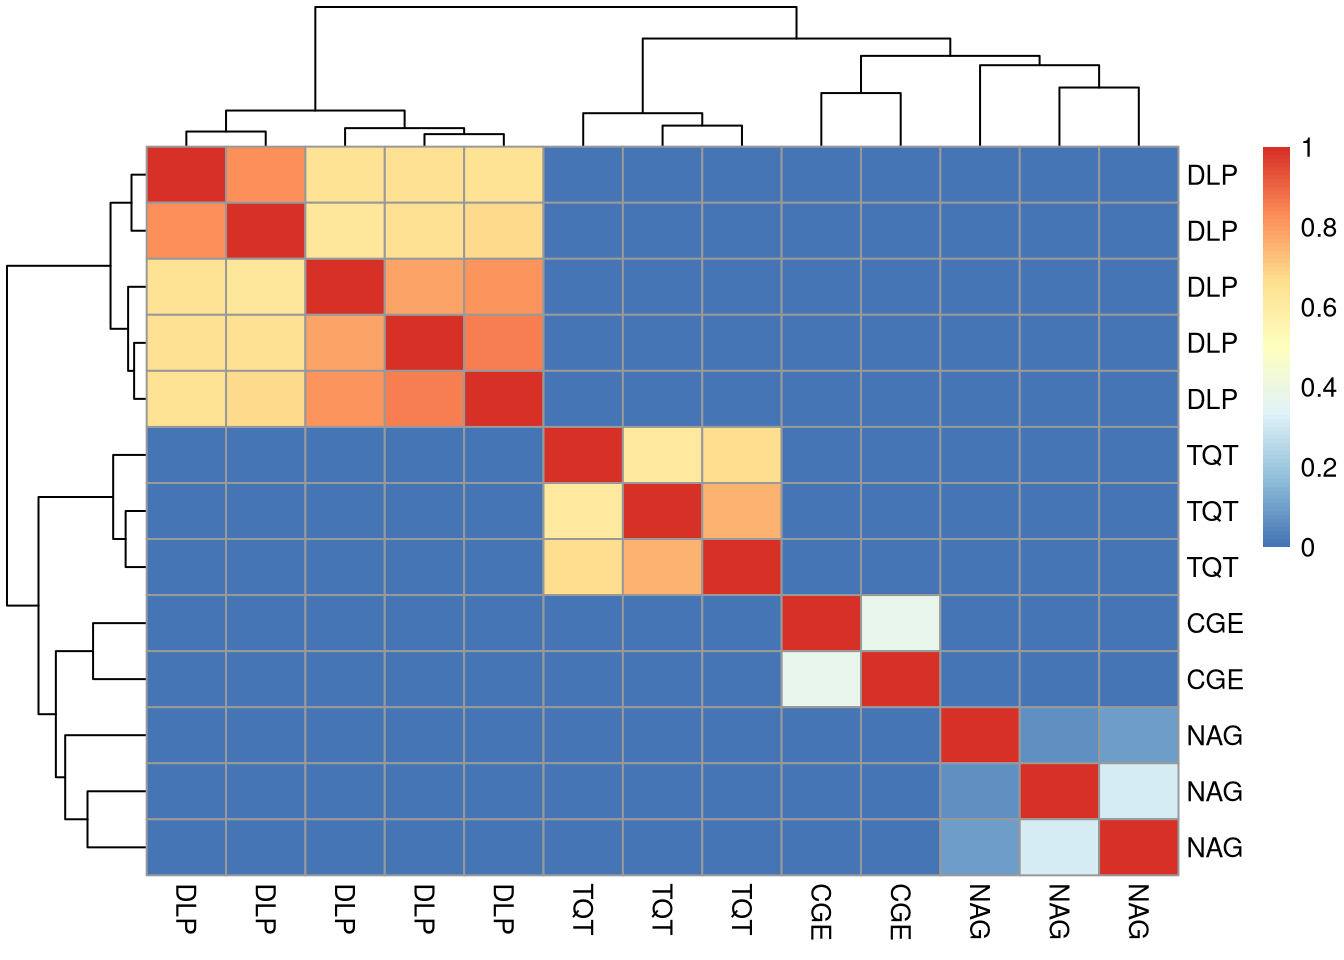
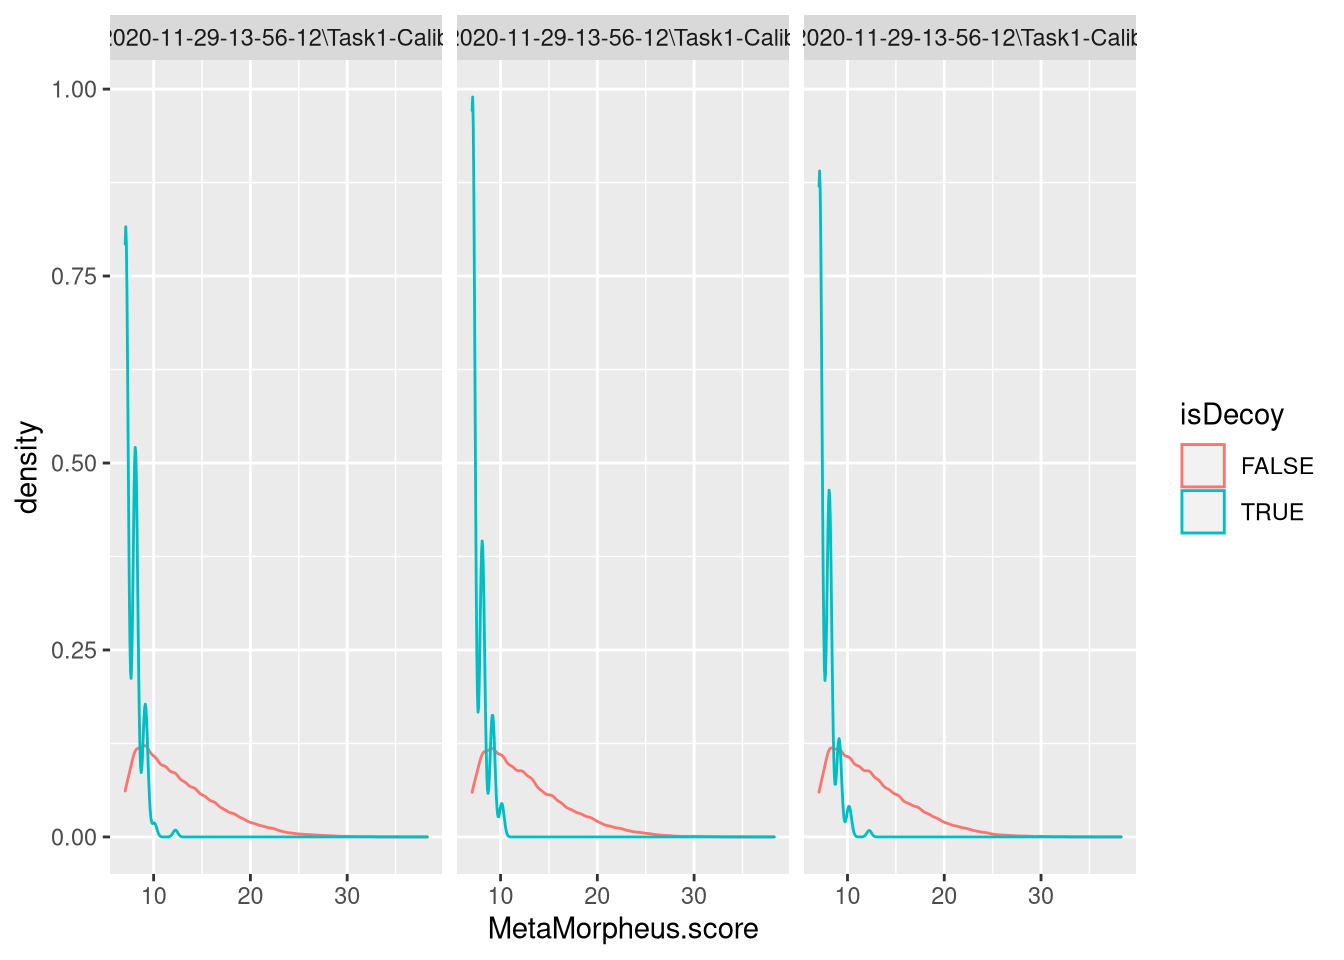
typos and fig width

diff --git a/docs/identification-data.html b/docs/identification-data.html
@@ -1120,7 +1120,7 @@ page for details. Draw a heatmap of that distance matrix</li>
 <a href="https://www.ebi.ac.uk/pride/archive/projects/PXD022816">PXD022816</a>
 project <span class="citation">(<a href="#ref-Morgenstern:2020" role="doc-biblioref">Morgenstern, Barzilay, and Levin 2021</a>)</span>. Hint: you will need to execute
 <code>rpx:::apply_fix_issue_5(FALSE)</code> before instantiating the data object
-if you user <code>rpx</code> version &lt; 1.99.4.</p>
+if you use <code>rpx</code> version &lt; 1.99.4.</p>
 <p class="question-end">
 <span class="fa fa-square-o solution-icon"></span>
 </p>
@@ -1202,7 +1202,7 @@ if you user <code>rpx</code> version &lt; 1.99.4.</p>
 </p>
 <div class="question-body">
 <p>Generate a <code>Spectra</code> object and a table of filtered PSMs. Visualise
-the totla ion chromatograms and check the quality of the
+the total ion chromatograms and check the quality of the
 identification data by comparing the density of the decoy and target
 PSMs id scores for each file.</p>
 <p class="question-end">
@@ -1265,7 +1265,7 @@ PSMs id scores for each file.</p>
 <span id="cb215-10"><a href="identification-data.html#cb215-10" aria-hidden="true" tabindex="-1"></a>               <span class="at">y =</span> totIonCurrent,</span>
 <span id="cb215-11"><a href="identification-data.html#cb215-11" aria-hidden="true" tabindex="-1"></a>               <span class="at">colour =</span> <span class="fu">basename</span>(dataOrigin))) <span class="sc">+</span></span>
 <span id="cb215-12"><a href="identification-data.html#cb215-12" aria-hidden="true" tabindex="-1"></a>    <span class="fu">geom_line</span>()</span></code></pre></div>
-<p><img src="R4MS_files/figure-html/unnamed-chunk-57-1.png" width="672"></p>
+<p><img src="R4MS_files/figure-html/unnamed-chunk-58-1.png" width="1152"></p>
 <div class="sourceCode" id="cb216"><pre class="sourceCode r"><code class="sourceCode r"><span id="cb216-1"><a href="identification-data.html#cb216-1" aria-hidden="true" tabindex="-1"></a><span class="do">## Identification data</span></span>
 <span id="cb216-2"><a href="identification-data.html#cb216-2" aria-hidden="true" tabindex="-1"></a><span class="fu">library</span>(<span class="st">"PSM"</span>)</span>
 <span id="cb216-3"><a href="identification-data.html#cb216-3" aria-hidden="true" tabindex="-1"></a>id <span class="ot">&lt;-</span> <span class="fu">PSM</span>(mzids)</span>
@@ -1284,7 +1284,7 @@ PSMs id scores for each file.</p>
 <span id="cb218-3"><a href="identification-data.html#cb218-3" aria-hidden="true" tabindex="-1"></a>               <span class="at">colour =</span> isDecoy)) <span class="sc">+</span></span>
 <span id="cb218-4"><a href="identification-data.html#cb218-4" aria-hidden="true" tabindex="-1"></a>    <span class="fu">geom_density</span>() <span class="sc">+</span></span>
 <span id="cb218-5"><a href="identification-data.html#cb218-5" aria-hidden="true" tabindex="-1"></a>    <span class="fu">facet_wrap</span>(<span class="sc">~</span> spectrumFile)</span></code></pre></div>
-<p><img src="R4MS_files/figure-html/unnamed-chunk-57-2.png" width="672"></p>
+<p><img src="R4MS_files/figure-html/unnamed-chunk-59-1.png" width="672"></p>
 <div class="sourceCode" id="cb219"><pre class="sourceCode r"><code class="sourceCode r"><span id="cb219-1"><a href="identification-data.html#cb219-1" aria-hidden="true" tabindex="-1"></a>id_filtered <span class="ot">&lt;-</span> <span class="fu">filterPSMs</span>(id)</span>
 <span id="cb219-2"><a href="identification-data.html#cb219-2" aria-hidden="true" tabindex="-1"></a><span class="fu">max</span>(id_filtered<span class="sc">$</span>PSM.level.q.value)</span></code></pre></div>
 <pre><code>## [1] 0.009628536</code></pre>
@@ -1392,13 +1392,13 @@ switch to an in-memory backend to seed up the calculations.</p>
 ## 13          2   3563.78     26314
 ##  ... 65 more variables/columns.
 ## Processing:
-##  Switch backend from MsBackendMzR to MsBackendDataFrame [Thu Apr 22 16:10:19 2021]</code></pre>
+##  Switch backend from MsBackendMzR to MsBackendDataFrame [Thu Apr 22 16:18:04 2021]</code></pre>
 <div class="sourceCode" id="cb231"><pre class="sourceCode r"><code class="sourceCode r"><span id="cb231-1"><a href="identification-data.html#cb231-1" aria-hidden="true" tabindex="-1"></a>cmat <span class="ot">&lt;-</span> <span class="fu">compareSpectra</span>(sp_O43175)</span>
 <span id="cb231-2"><a href="identification-data.html#cb231-2" aria-hidden="true" tabindex="-1"></a><span class="fu">rownames</span>(cmat) <span class="ot">&lt;-</span></span>
 <span id="cb231-3"><a href="identification-data.html#cb231-3" aria-hidden="true" tabindex="-1"></a>    <span class="fu">colnames</span>(cmat) <span class="ot">&lt;-</span> <span class="fu">strtrim</span>(sp_O43175<span class="sc">$</span>sequence, <span class="dv">3</span>)</span>
 <span id="cb231-4"><a href="identification-data.html#cb231-4" aria-hidden="true" tabindex="-1"></a></span>
 <span id="cb231-5"><a href="identification-data.html#cb231-5" aria-hidden="true" tabindex="-1"></a>pheatmap<span class="sc">::</span><span class="fu">pheatmap</span>(cmat)</span></code></pre></div>
-<p><img src="R4MS_files/figure-html/unnamed-chunk-59-1.png" width="672"></p>
+<p><img src="R4MS_files/figure-html/unnamed-chunk-61-1.png" width="672"></p>
 <div class="sourceCode" id="cb232"><pre class="sourceCode r"><code class="sourceCode r"><span id="cb232-1"><a href="identification-data.html#cb232-1" aria-hidden="true" tabindex="-1"></a>(i <span class="ot">&lt;-</span> <span class="fu">which</span>(<span class="fu">rownames</span>(cmat) <span class="sc">==</span> <span class="st">"DLP"</span>))</span></code></pre></div>
 <pre><code>## [1]  2  4  9 10 13</code></pre>
 <div class="sourceCode" id="cb234"><pre class="sourceCode r"><code class="sourceCode r"><span id="cb234-1"><a href="identification-data.html#cb234-1" aria-hidden="true" tabindex="-1"></a><span class="fu">plotSpectra</span>(sp_O43175[i], <span class="at">labels =</span> addFragments,</span>
@@ -1413,9 +1413,9 @@ switch to an in-memory backend to seed up the calculations.</p>
 <pre><code>## [1] NA         "Carbamyl" "Carbamyl" NA         "Carbamyl"</code></pre>
 <div class="sourceCode" id="cb240"><pre class="sourceCode r"><code class="sourceCode r"><span id="cb240-1"><a href="identification-data.html#cb240-1" aria-hidden="true" tabindex="-1"></a><span class="do">## Directly compare spectra with/without Carbamyl</span></span>
 <span id="cb240-2"><a href="identification-data.html#cb240-2" aria-hidden="true" tabindex="-1"></a><span class="fu">plotSpectraMirror</span>(sp_O43175[<span class="dv">4</span>], sp_O43175[<span class="dv">9</span>])</span></code></pre></div>
-<p><img src="R4MS_files/figure-html/unnamed-chunk-59-2.png" width="672"></p>
+<p><img src="R4MS_files/figure-html/unnamed-chunk-61-2.png" width="672"></p>
 <div class="sourceCode" id="cb241"><pre class="sourceCode r"><code class="sourceCode r"><span id="cb241-1"><a href="identification-data.html#cb241-1" aria-hidden="true" tabindex="-1"></a><span class="fu">plotSpectraMirror</span>(sp_O43175[<span class="dv">2</span>], sp_O43175[<span class="dv">10</span>])</span></code></pre></div>
-<p><img src="R4MS_files/figure-html/unnamed-chunk-59-3.png" width="672"></p>
+<p><img src="R4MS_files/figure-html/unnamed-chunk-61-3.png" width="672"></p>
 <p class="solution-end">
 <span class="fa fa-square-o solution-icon"></span>
 </p>

diff --git a/docs/raw-ms-data.html b/docs/raw-ms-data.html
@@ -475,7 +475,7 @@ memory footprint.</li>
 ## 1862         1   259.752       931
 ##  ... 33 more variables/columns.
 ## Processing:
-##  Switch backend from MsBackendMzR to MsBackendDataFrame [Thu Apr 22 16:09:36 2021]</code></pre>
+##  Switch backend from MsBackendMzR to MsBackendDataFrame [Thu Apr 22 16:17:21 2021]</code></pre>
 <ul>
 <li>
 <code>MsBackendHdf5Peaks</code>: similar to <code>MsBackendMzR</code> this backend reads peak data
@@ -504,7 +504,7 @@ memory. The peak data are stored in Hdf5 files which guarantees scalability.</li
 ##  20171016_POOL_POS_1_105-134.h5
 ##  20171016_POOL_POS_3_105-134.h5
 ## Processing:
-##  Switch backend from MsBackendMzR to MsBackendHdf5Peaks [Thu Apr 22 16:09:41 2021]</code></pre>
+##  Switch backend from MsBackendMzR to MsBackendHdf5Peaks [Thu Apr 22 16:17:26 2021]</code></pre>
 <div class="sourceCode" id="cb45"><pre class="sourceCode r"><code class="sourceCode r"><span id="cb45-1"><a href="raw-ms-data.html#cb45-1" aria-hidden="true" tabindex="-1"></a><span class="fu">table</span>(sp_hdf5<span class="sc">$</span>dataOrigin)</span></code></pre></div>
 <pre><code>## 
 ## /home/lgatto/R/x86_64-pc-linux-gnu-library/4.0/msdata/sciex/20171016_POOL_POS_1_105-134.mzML 
@@ -513,9 +513,9 @@ memory. The peak data are stored in Hdf5 files which guarantees scalability.</li
 ##                                                                                          931</code></pre>
 <div class="sourceCode" id="cb47"><pre class="sourceCode r"><code class="sourceCode r"><span id="cb47-1"><a href="raw-ms-data.html#cb47-1" aria-hidden="true" tabindex="-1"></a><span class="fu">table</span>(sp_hdf5<span class="sc">$</span>dataStorage)</span></code></pre></div>
 <pre><code>## 
-## /tmp/RtmpCe4Hpj/20171016_POOL_POS_1_105-134.h5 
+## /tmp/RtmpVkaiHY/20171016_POOL_POS_1_105-134.h5 
 ##                                            931 
-## /tmp/RtmpCe4Hpj/20171016_POOL_POS_3_105-134.h5 
+## /tmp/RtmpVkaiHY/20171016_POOL_POS_3_105-134.h5 
 ##                                            931</code></pre>
 <p>All of the above mentioned backends support changing all of their their spectra
 variables, <strong>except</strong> the <code>MsBackendMzR</code> that does not support changing m/z or
@@ -779,7 +779,7 @@ all its MS2 children.</li>
 ## file(s):
 ## b87c573dec94f_TMT_Erwinia_1uLSike_Top10HCD_isol2_45stepped_60min_01-20141210.mzML
 ## Processing:
-##  Filter: select parent/children scans for 2807 [Thu Apr 22 16:09:46 2021]</code></pre>
+##  Filter: select parent/children scans for 2807 [Thu Apr 22 16:17:32 2021]</code></pre>
 <p class="solution-end">
 <span class="fa fa-square-o solution-icon"></span>
 </p>
@@ -1028,8 +1028,8 @@ between 175 and 189 seconds in the measurement run.</p>
 ## file(s):
 ## 20171016_POOL_POS_3_105-134.mzML
 ## Processing:
-##  Filter: select data origin(s) /home/lgatto/R/x86_64-pc-linux-gnu-library/4.0/msdata/sciex/20171016_POOL_POS_3_105-134.mzML [Thu Apr 22 16:09:48 2021]
-##  Filter: select retention time [175..189] on MS level(s) 1 [Thu Apr 22 16:09:48 2021]</code></pre>
+##  Filter: select data origin(s) /home/lgatto/R/x86_64-pc-linux-gnu-library/4.0/msdata/sciex/20171016_POOL_POS_3_105-134.mzML [Thu Apr 22 16:17:33 2021]
+##  Filter: select retention time [175..189] on MS level(s) 1 [Thu Apr 22 16:17:33 2021]</code></pre>
 <p class="solution-end">
 <span class="fa fa-square-o solution-icon"></span>
 </p>
@@ -1110,7 +1110,7 @@ below (next to Lazy evaluation queue).</p>
 ## 20171016_POOL_POS_3_105-134.mzML
 ## Lazy evaluation queue: 1 processing step(s)
 ## Processing:
-##  Remove peaks with intensities outside [10, Inf] in spectra of MS level(s) 1. [Thu Apr 22 16:09:48 2021]</code></pre>
+##  Remove peaks with intensities outside [10, Inf] in spectra of MS level(s) 1. [Thu Apr 22 16:17:33 2021]</code></pre>
 <div class="sourceCode" id="cb95"><pre class="sourceCode r"><code class="sourceCode r"><span id="cb95-1"><a href="raw-ms-data.html#cb95-1" aria-hidden="true" tabindex="-1"></a><span class="fu">min</span>(<span class="fu">intensity</span>(sp_sciex[<span class="dv">1</span>]))</span></code></pre></div>
 <pre><code>## [1] 412</code></pre>
 <div class="sourceCode" id="cb97"><pre class="sourceCode r"><code class="sourceCode r"><span id="cb97-1"><a href="raw-ms-data.html#cb97-1" aria-hidden="true" tabindex="-1"></a>sp_sciex<span class="sc">@</span>processingQueue</span></code></pre></div>

diff --git a/docs/sec-quant.html b/docs/sec-quant.html
@@ -1521,7 +1521,7 @@ by aggregating features using a robust summarisation (available as
 M-estimation using Huber weights, as described in section 2.7 in
 <span class="citation">(<a href="#ref-Sticker:2019" role="doc-biblioref">Sticker et al. 2019</a>)</span>.</p>
 <div class="figure">
-<span id="fig:unnamed-chunk-67"></span>
+<span id="fig:unnamed-chunk-69"></span>
 <p class="caption marginnote shownote">
 Figure 5.16: Aggregation using robust summarisation.
 </p>
